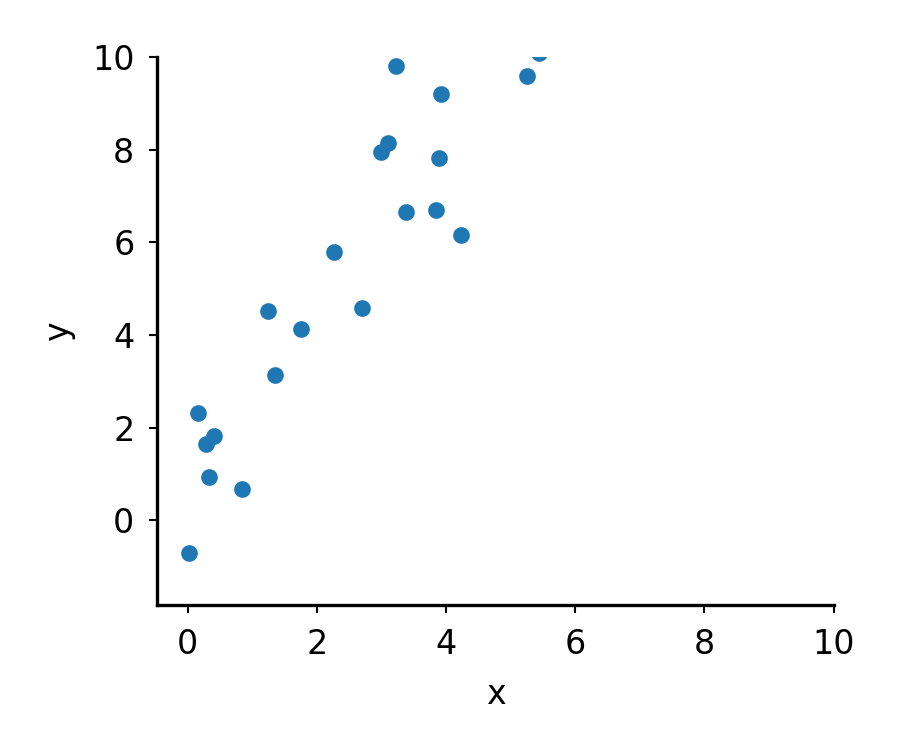
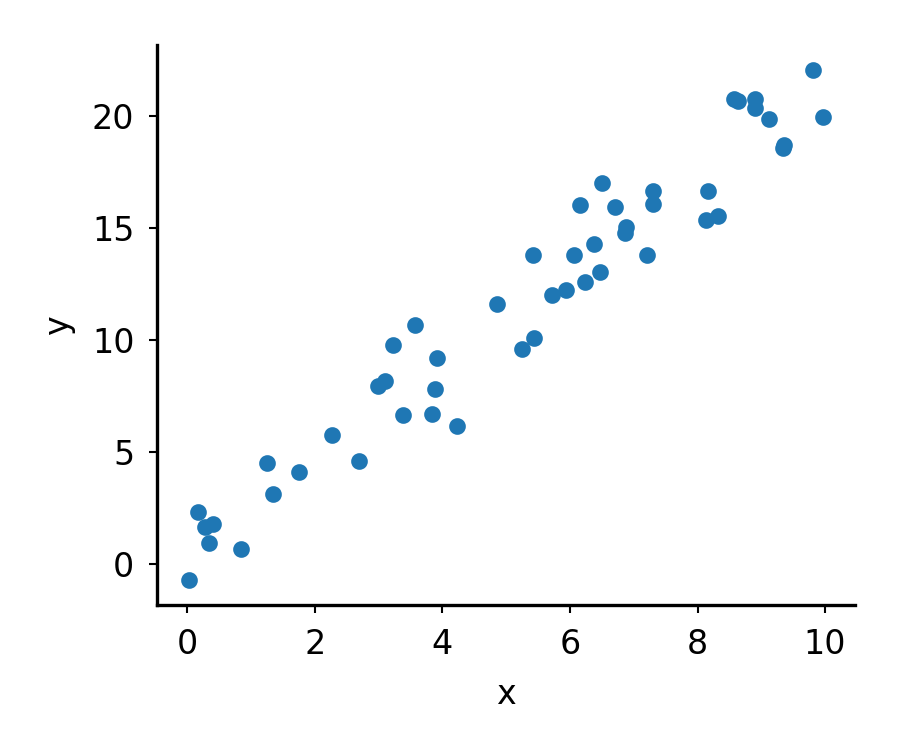
.

diff --git a/README.md b/README.md
@@ -31,7 +31,7 @@ more noise, the line gets harder to see.
 | $y=0.5x+3$ | 0   | <img src="img/line_0.5x_3_no_noise.png" height="250"> |
 | $y=2x+1$   | 0   | <img src="img/line_2x_1_no_noise.png" height="250">   |
 | $y=2x+1$   | 1.5 | <img src="img/line_2x_1_1.5_noise.png" height="250">  |
-| $y=2x+1$   | 5   | <img src="img/line_2x_1_5_noise.png" height=2150">    |
+| $y=2x+1$   | 5   | <img src="img/line_2x_1_5_noise.png" height=250">    |
 
 <details>
 
@@ -72,7 +72,9 @@ tail -n +2 out/line_2x_1_no_noise.tsv \
     --markerfacecolor tab:blue \
     --width 3 \
     --height 2.5 \
-    --line_style o
+    --line_style o \
+    --y_min 0 --y_max 10 \
+    --x_min 0 --x_max 10 
 
 python src/make_line_dataset.py \
     -w 2 \
